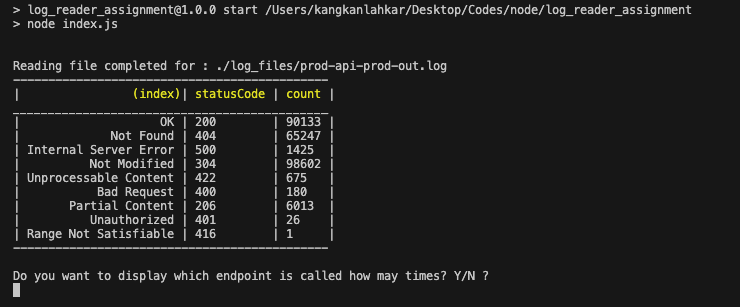
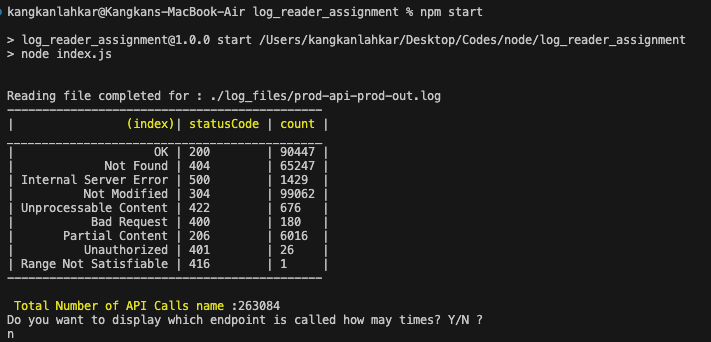
displaying results of api endpoints

Changed region(s): [[0.0, 0.0, 0.9592, 0.8208], [0.0, 0.8795, 0.6807, 0.9967]]

diff --git a/index.js b/index.js
@@ -38,49 +38,53 @@ for(let file in log_files){
     let invalid = 0;
     let prev = ''
     let prev_prev =  ''
+    let api_total = 0;
+    let first_time = 0;
+    let last_time = 0;
     // ling by line reading of files
     rl.on('line', (line) => {
       line_count++;
-      // console.log('Line:', line);
-      //url_map_count = new Map();
       if (regexPattern.test(line)) {
-          //console.log("Valid date format.");
           for(let i in request_methods){
-            if(line.includes(request_methods[i]) && line.includes(':ffff')){
-              let arr = line.split('HTTP/1.1')
-              //console.log(arr[0])
-              // let url_string = arr[0]
-              // let index_of_method = url_string.lastIndexOf(i);
-              // //console.log(index_of_method,url_string.length )
-              // url_string = url_string.substring(index_of_method+1, url_string.length);
-              // url_string = url_string.substring(url_string.indexOf('/'), url_string.length);
-              // console.log(url_string)
-              let url = line.split(request_methods[i])
-              let url_string  = url[1].substring(1, url[1].indexOf('HTTP/1.1')-1)
-              //console.log(url_string)
-              if(url_map_count.has(url_string)){
-                url_map_count.set(url_string, url_map_count.get(url_string)+1);
-              }else{
-                url_map_count.set(url_string, 1);
-              }
-
+            if(line.includes(request_methods[i]) && line.includes(':ffff') && line.includes('HTTP/1.1')){
+              valid++;
              
               try{
+                // 2023-04-03 23:18 +10:00: ::ffff:49.36.88.202 - - [03/Apr/2023:13:18:49 +0000] "GET /master/job_templates_kHfMGI_1644343835794.png HTTP/1.1" 200 1247981 "-" "webapp/1 CFNetwork/1402.0.8 Darwin/22.3.0"
+                let arr = line.split('HTTP/1.1'); // splitting the string by HTTP/1.1, on the right side you will get HTTP status code
                 let link = arr[1].replace('"', '')
                 if(link.length >= 3){
                   link = link.trim()
                   let meth = link.substring(0, 3)
+                  // we are creating a map for http request method and storing it's count
                   if(method_map.has(meth)){
                     method_map.set(meth, method_map.get(meth)+1)
                   }else{
                     method_map.set(meth, 1)
                   }
-                  valid++;
+                  api_total++;
+                  
                   //console.log(meth)
                 }
                 //console.log(link)
               }catch(e){
                 //console.log(e)
+              }
+
+              try{
+                //2023-04-04 15:42 +10:00: ::ffff:49.36.65.32 - - [04/Apr/2023:05:42:03 +0000] "GET /api/member/recommended?rowsPerPage=25&page=1&keyname=company& HTTP/1.1" 200 34155 "-" "okhttp/4.9.1"
+                let url = line.split(request_methods[i]); // splitting on the "GET" keyword. On the right side you will get url
+                let url_string  = url[1].substring(1, url[1].indexOf('HTTP/1.1')-1); // you will get string of "/api/member/recommended?rowsPerPage=25&page=1&keyname=company&"
+                
+                // now wee need to store url string along with count
+                if(url_map_count.has(url_string)){
+                  url_map_count.set(url_string, url_map_count.get(url_string)+1);
+                }else{
+                  url_map_count.set(url_string, 1);
+                }
+                
+              }catch(e){
+
               }
             }
           }
@@ -94,18 +98,17 @@ for(let file in log_files){
     });
     
     // Event listener for the end of file
+    // Display the result
     rl.on('close', () => {
       
       console.log('Reading file completed for : '+log_files[file]);
-      // console.log("valid",valid )
-      // console.log("invalid",invalid )
-      // console.log(method_map)
-      // console.log('total lines'+total_lines);
       printValue(method_map)
       console.log()
       process.stdout.write("Do you want to display which endpoint is called how may times? Y/N ?")
       console.log()
+      
       let shouldPrint = input.question()
+      // if user input is 'Y' or  'y' display API endpoints along with count
       if(shouldPrint === 'Y' || shouldPrint === 'y' ){
         printCalls(url_map_count)
       }

diff --git a/printValue.js b/printValue.js
@@ -7,6 +7,7 @@ const status_code = require('./status_code');  // all possible http code and cod
 let printValue = function printValue(map){
 
   let len1 = 0, len2=0, len3=0;
+  let sum = 0;
   for(let  [key, value] of map){
     if(status_code.has(key)){
       len1 = Math.max(len1, status_code.get(key).length)
@@ -47,11 +48,13 @@ let printValue = function printValue(map){
   }
   process.stdout.write('\n') 
   try{
+      
       for(let  [key, value] of map){
           if(!status_code.has(key)){
             continue;
           }
-          process.stdout.write('| ') 
+          sum += value;
+          process.stdout.write('| ');
           let index = status_code.get(key)
           for(let i=0;i<len1-index.length;i++){
               process.stdout.write(' ') 
@@ -76,10 +79,12 @@ let printValue = function printValue(map){
   }
 
   for(let i=0;i<len_total;i++){
-      process. stdout. write('-') 
+      process.stdout.write('-') 
   }
 
-  process. stdout. write('\n') 
+  process.stdout.write('\n') 
+  process.stdout.write('\n') 
+  process.stdout.write('\x1b[33m Total Number of API Calls made \x1b[0m:'+sum) 
       
 
 }

diff --git a/printCalls.js b/printCalls.js
@@ -2,7 +2,7 @@ let minCallsToPrint = 500; // API calls count more than 500 will be printed
 
 let printCalls = function printCalls(map){
 //    
-    console.log('Endpoints above '+minCallsToPrint+' will be printed below')        
+    console.log('Endpoints above '+minCallsToPrint+'+ calls will be printed below')        
     for (const [key, value] of map) {
         if(value > minCallsToPrint){
             //console.log(`${key} = ${value}`);
